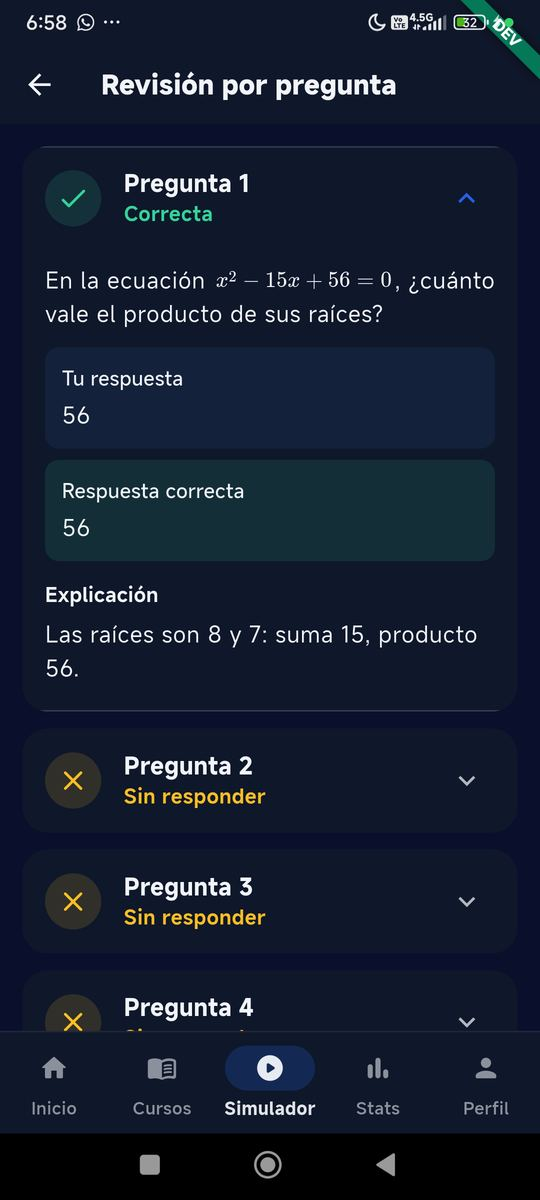
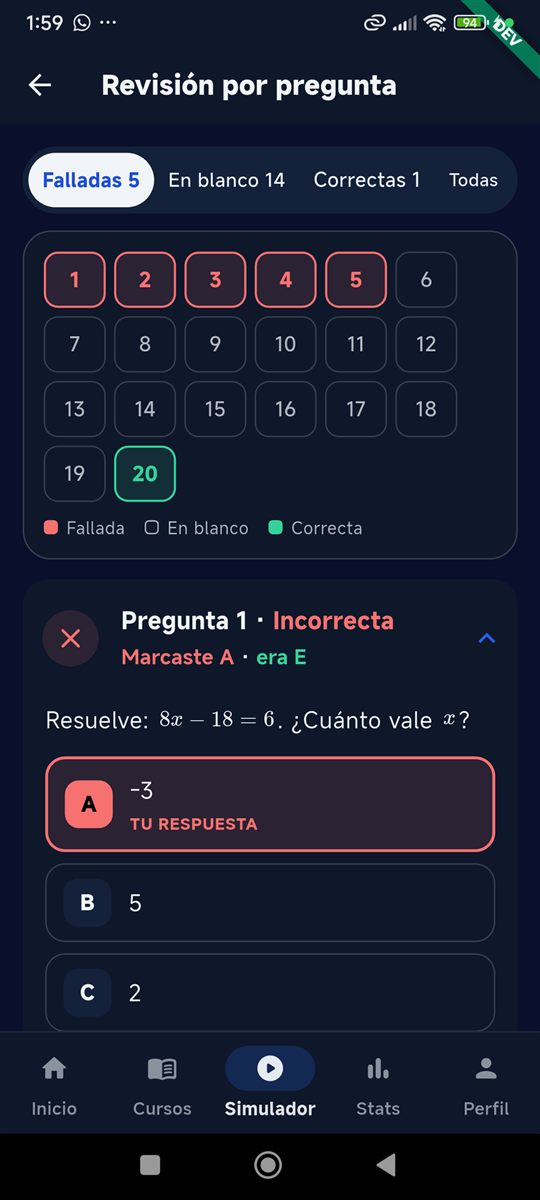
Guías: captura real de la revisión por pregunta (app #125)

diff --git a/docs/guias/guia_app.html b/docs/guias/guia_app.html
@@ -364,7 +364,7 @@ flowchart LR
       <tr><td class="msg">«El tiempo del examen terminó.» / «Se terminó el tiempo. Ya no puedes cambiar tus respuestas.»</td><td>Se acabó el tiempo. <b>En la guía no se entrega solo</b>: el siguiente «Rendir» crea un examen nuevo.</td></tr>
       <tr><td class="msg">«¡Aprobaste!» / «Aún no aprobaste»</td><td>Resultado. Se aprueba con más aciertos que el % de la plantilla (estricto).</td></tr>
       <tr><td class="msg">«¡Buen trabajo! Revisa las secciones pendientes de esta parte para completar tu avance.»</td><td>Aprobaste pero falta alguna sección por confirmar.</td></tr>
-      <tr><td class="msg">«Revisión por pregunta»: «Falladas {n} · En blanco {n} · Correctas {n} · Todas», mapa de casillas numeradas, «Pregunta {n} · Incorrecta / Sin responder / Correcta», «Marcaste B · era C», «TU RESPUESTA», «CORRECTA», «Explicación»</td><td>Siempre después de entregar. Abre en «Falladas» (si no hay, en «En blanco»; si tampoco, en «Todas»); la tarjeta cerrada ya muestra el enunciado y las letras; abierta muestra todas las alternativas como en el examen, la tuya en rojo y la correcta en verde. Tocar una casilla del mapa abre esa pregunta.</td></tr>
+      <tr><td class="msg">«Revisión por pregunta»: «Falladas {n} · En blanco {n} · Correctas {n} · Todas», mapa de casillas numeradas, «Pregunta {n} · Incorrecta / En blanco / Correcta», «Marcaste B · era C», «TU RESPUESTA», «CORRECTA», «Explicación»</td><td>Siempre después de entregar. Abre en «Falladas» (si no hay, en «En blanco»; si tampoco, en «Todas»); la tarjeta cerrada ya muestra el enunciado y las letras; abierta muestra todas las alternativas como en el examen, la tuya en rojo y la correcta en verde. Tocar una casilla del mapa abre esa pregunta.</td></tr>
       <tr><td class="msg">«Volver a la parte» · «Continuar a la siguiente parte»</td><td>El segundo, si aprobaste y no es la última parte.</td></tr>
       <tr><td class="msg">«Tu resultado está listo, pero aún no pudimos actualizar tu avance. Inténtalo de nuevo más tarde.»</td><td>El servidor no devolvió el progreso de la parte.</td></tr>
     </table></div>
@@ -660,12 +660,12 @@ flowchart LR
 </div>
 
 <div class="screen two" id="sim-despues">
-  <figure><img src="img/sim-revision.jpg" alt="Revisión"><figcaption>Revisión por pregunta.</figcaption></figure>
+  <figure><img src="img/sim-revision.jpg" alt="Revisión por pregunta con filtros, mapa y una pregunta fallada abierta"><figcaption>Revisión por pregunta: «Falladas 5 · En blanco 14 · Correctas 1 · Todas», el mapa de casillas y la pregunta 1 abierta («Marcaste A · era E», «TU RESPUESTA» en rojo).</figcaption></figure>
   <figure><img src="img/sim-progreso.jpg" alt="Historial"><figcaption>Tu progreso e historial.</figcaption></figure>
   <div class="body">
     <h3>Revisión, Mis errores, historial y estadísticas</h3>
     <ul>
-      <li><b>Revisión por pregunta</b>: filtros «Falladas · En blanco · Correctas · Todas» con su número (abre en Falladas), un mapa con una casilla por pregunta (roja fallada, gris en blanco, verde correcta; al tocarla abre esa pregunta) y una tarjeta por pregunta. Cerrada muestra «Pregunta {n} · Incorrecta», el inicio del enunciado y «Marcaste B · era C»; abierta, el enunciado, todas las alternativas con su letra («TU RESPUESTA» en rojo, «CORRECTA» en verde), la «Explicación» (se oculta si el admin apaga las explicaciones <span class="chip info">ADMIN</span>; en una fallada puede pedir el video) y «Ver en la guía», que cierra el resultado y abre el subtema y la parte de esa pregunta.</li>
+      <li><b>Revisión por pregunta</b>: filtros «Falladas · En blanco · Correctas · Todas» con su número (abre en Falladas), un mapa con una casilla por pregunta (roja fallada, gris en blanco, verde correcta; al tocarla abre esa pregunta) y una tarjeta por pregunta. Cerrada muestra «Pregunta {n} · Incorrecta» (o «En blanco»), una línea del enunciado y «Marcaste B · era C»; abierta, el enunciado, todas las alternativas con su letra y, debajo, «TU RESPUESTA» en rojo o «CORRECTA» en verde («TU RESPUESTA · CORRECTA» si acertaste), la «Explicación» (se oculta si el admin apaga las explicaciones <span class="chip info">ADMIN</span>; en una fallada puede pedir el video) y «Ver en la guía», que cierra el resultado y abre el subtema y la parte de esa pregunta.</li>
       <li><b>Practicar mis errores</b>: examen «Mis errores» con lo que fallaste o dejaste en blanco, hasta 100 preguntas, mezcladas y en la misma versión. Lleva reloj (90 s por pregunta) solo si el original lo tenía.</li>
       <li><b>Tu progreso e historial</b>:
         <ul>

diff --git a/PROGRESO.md b/PROGRESO.md
@@ -5,6 +5,7 @@
 _Última actualización: 2026-10-19_
 
 ## Estado actual
+- **Revisión por pregunta: pulido (2026-10-19, app #125 / admin #109):** detalle en `../iya-app/PROGRESO.md`. Aquí: captura real nueva `docs/guias/img/sim-revision.jpg` y textos de la guía («En blanco» en la tarjeta).
 - **Revisión por pregunta renovada (2026-10-19, app #124 / admin #108):** solo app (filtros, mapa de preguntas, tarjeta con todas las alternativas y «Ver en la guía» en el Simulador; detalle en `../iya-app/PROGRESO.md`). Aquí: guía de la app (tabla del examen de parte, «Revisión, Mis errores…» del Simulador, captura nueva) y changelog de arquitectura. Sin cambios de Functions, reglas ni configuración. Lienzo de las propuestas: https://claude.ai/artifact/EAfyEe5ScqWQ7zPvfYExFk.
 - **Anuncios: siete pantallas con banner e intersticial al terminar cada examen (2026-10-19, admin #107 / app #123):** `AdsSettings.bannerScreenIds` suma `courses`, `simulator`, `stats` y `profile` (etiquetas y fábrica en true), `minInterstitialMinutes = 0` (0 = en cada examen) y fábrica `interstitialMinMinutes = 0`, `firstExamOfDayFree = false`; tema «Anuncios» con cuatro preguntas nuevas y «En la práctica» del intersticial (`_interstitialPractice`). En TEST `{config}/ads` quedó con las siete pantallas, 0 minutos y sin primer examen libre. Contrato `docs/ads_contract.md`, guía de la app (sección «Anuncios», tabla del admin, historial) y arquitectura al día.
 - **Validación en el teléfono de 5A/5B (2026-10-19, TEST, admin #106 / app #122):** APK development instalado por adb; banner de prueba de AdMob en Inicio y Rankings, pantalla Premium («Google Play no está disponible» sin Play Console), «Restaurar compras» sin compras, premium regalado (banner fuera, Perfil «Premium hasta el 26/10/2026», pantalla con «Acceso regalado…») y aviso «Exámenes pasados de hoy» al cuarto examen pasado. Hallazgo corregido en la app: `AdBannerSlot` usaba `Center` sin `heightFactor` y el slot tomaba toda la altura del Scaffold (banner a media pantalla, Inicio vacío). Capturas reales en la guía (`docs/guias/img/anuncios-inicio.jpg`, `premium-*.jpg`).
